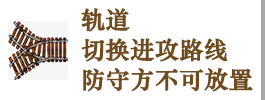
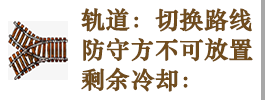
fix bugs

diff --git a/src/fighting.py b/src/fighting.py
@@ -329,7 +329,18 @@ def startFight(screen, clock, modeID, mapID, CharID):
                             # coordinateSelectedOld = [-1, -1]
                             directionSelectedStatus = False # This is actually necessary.
                         elif coordinateSelected[0] >= 0 and coordinateSelected[1]>=0 and mapload.maps[coordinateSelected[1]][coordinateSelected[0]].isPathway:
-                            mapload.update_Pathway(coordinateSelected, mapload.maps[coordinateSelected[1]][coordinateSelected[0]].blockDirection)
+                            kk = len(mapload.Pathways)
+                            for mm in range(kk):
+                                if mapload.Pathways[mm][0] == coordinateSelected[1] and  mapload.Pathways[mm][1] == coordinateSelected[0]:
+                                    if timePast - mapload.PathwaysShiftTime[mm] >= mapload.PathwayCD:
+                                        mapload.update_Pathway(coordinateSelected, mapload.maps[coordinateSelected[1]][coordinateSelected[0]].blockDirection)
+                                        mapload.PathwaysShiftTime[mm] = timePast
+                                        characterSelectedID = -1
+                                        coordinateSelected = [-1, -1]
+                                        # coordinateSelectedOld = [-1, -1]
+                                        directionSelectedStatus = False
+                                    break
+
                     if x > cancelPos[0] and x < cancelPos[0] + cancelPic.get_width() \
                         and y > cancelPos[1] and y < cancelPos[1] + cancelPic.get_height():
                         characterSelectedID = -1

diff --git a/src/map.py b/src/map.py
@@ -38,10 +38,12 @@ class Map:
         self.columnNumber = m   # 行数
         self.fortress_HP = 3   #初始生命，先设成3
         self.time_limit = 180   #时间限制，以秒为单位
+        self.PathwayCD = 5   #切换轨道的冷却时间
 
         self.maps = []  # 二维列表，里面放格子
         self.homes = []  # 元组列表，里面放所有的家
         self.Pathways = []  # 二维列表，里面放所有的轨道
+        self.PathwaysShiftTime = []  # 存储上次轨道切换的时间
         self.bornPoints = []  # 元组列表，里面放所有的出生点
 
         # 下面是UI所需的一些变量，都是像素为单位
@@ -72,6 +74,7 @@ class Map:
         self.maps[i][j].isPathway = True
         self.setSomeBlock(i, j, 1)
         self.Pathways.append((i, j))
+        self.PathwaysShiftTime.append(- self.PathwayCD)
 
     # 将(i,j)位置的格子赋上方向,若能是多个方向，则多次输入即可，含着能变为的所有方向
     def setBlockDirection(self, i, j, k):

diff --git a/src/selectCharacters.py b/src/selectCharacters.py
@@ -104,7 +104,7 @@ def selectCharacters(screen, clock, modeID, mapID):
 
                 if x > homePos[0] and x < homePos[0] + homeButton.get_width() \
                         and y > homePos[1] and y < homePos[1] + homeButton.get_height():
-                    from initMenu import initialMenu
+                    from initialMenu import initialMenu
                     initialMenu(screen, clock)
                     breakflag = 1
                     # here to come back home

diff --git a/src/selectMode.py b/src/selectMode.py
@@ -97,7 +97,7 @@ def selectMode(screen, clock):
 
                 if x > backPos[0] and x < backPos[0] + backButton.get_width() \
                         and y > backPos[1] and y < backPos[1] + backButton.get_height():
-                    from initMenu import initialMenu
+                    from initialMenu import initialMenu
                     initialMenu(screen, clock)
                     breakflag = 1
                     # here to come back
